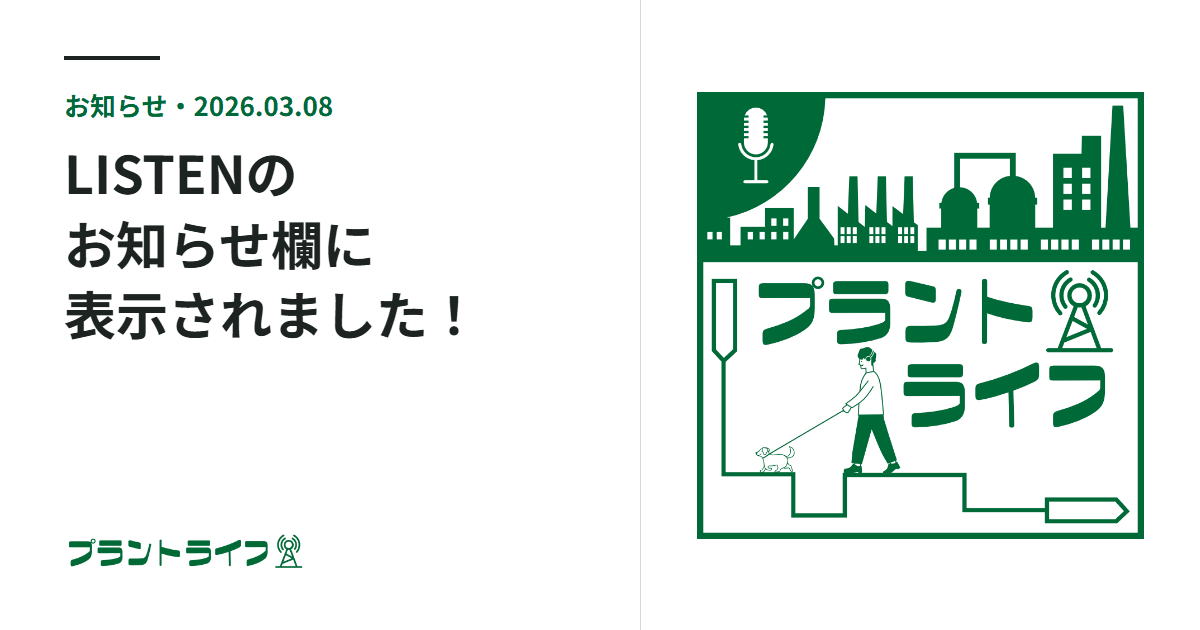
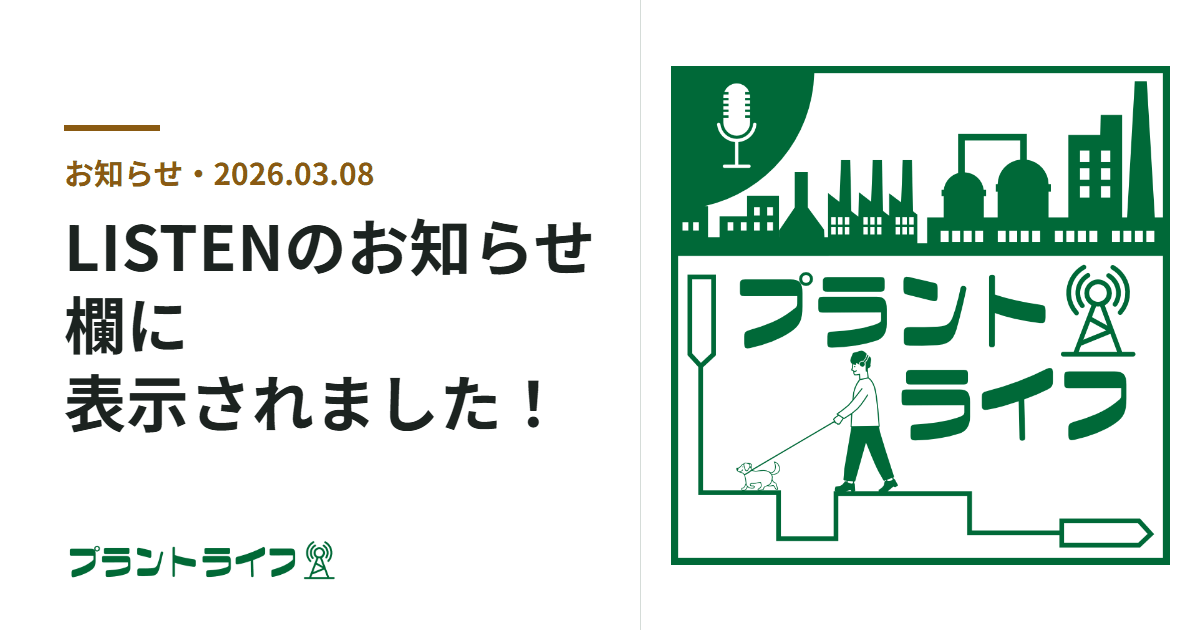
分類の差し色を入れる（テーマの色・サムネイルの作り直し）
- テーマ名の前に色の■（絞り込みの札・回のカード・回のページ）。安全・トラブルは三角、番組・コラボ企画は墨
  色は4サイト共通の差し色（反応・物質＝紫、装置＝納戸、工程・化学工学＝藍、環境＝黄土、計装＝赤紫、人・仕事＝紺、雑学＝弁柄）
- 共有用のサムネイル15枚を、余白を詰めた型で作り直した（題を大きく、語の途中で改行しない、ページの種類ごとの差し色）

diff --git a/styles.css b/styles.css
@@ -1931,3 +1931,47 @@ time,
     display: none;
   }
 }
+
+/* ===== 分類の差し色（デザインの決まり §3） ===== */
+:root {
+  --accent-ai: #315d84;
+  --accent-nando: #0f6a75;
+  --accent-odo: #8a5a12;
+  --accent-kon: #283c87;
+  --accent-murasaki: #7958a7;
+  --accent-akamurasaki: #692963;
+  --accent-enji: #a44b61;
+  --accent-bengara: #752b11;
+}
+/* テーマごとの色（4サイト共通の意味：反応・物質＝紫、装置＝納戸、工程＝藍、安全＝臙脂、環境＝黄土、計装＝赤紫、人・仕事＝紺） */
+[data-tag="化学物質・材料"],.ep-tag-link[href$="?tag=%E5%8C%96%E5%AD%A6%E7%89%A9%E8%B3%AA%E3%83%BB%E6%9D%90%E6%96%99"]{--cat:var(--accent-murasaki)}
+[data-tag="化学反応"],.ep-tag-link[href$="?tag=%E5%8C%96%E5%AD%A6%E5%8F%8D%E5%BF%9C"]{--cat:var(--accent-murasaki)}
+[data-tag="プラント設備・装置"],.ep-tag-link[href$="?tag=%E3%83%97%E3%83%A9%E3%83%B3%E3%83%88%E8%A8%AD%E5%82%99%E3%83%BB%E8%A3%85%E7%BD%AE"]{--cat:var(--accent-nando)}
+[data-tag="プロセス・運転管理"],.ep-tag-link[href$="?tag=%E3%83%97%E3%83%AD%E3%82%BB%E3%82%B9%E3%83%BB%E9%81%8B%E8%BB%A2%E7%AE%A1%E7%90%86"]{--cat:var(--accent-ai)}
+[data-tag="化学工学"],.ep-tag-link[href$="?tag=%E5%8C%96%E5%AD%A6%E5%B7%A5%E5%AD%A6"]{--cat:var(--accent-ai)}
+[data-tag="安全・トラブル"],.ep-tag-link[href$="?tag=%E5%AE%89%E5%85%A8%E3%83%BB%E3%83%88%E3%83%A9%E3%83%96%E3%83%AB"]{--cat:var(--accent-enji)}
+[data-tag="環境・資源循環"],.ep-tag-link[href$="?tag=%E7%92%B0%E5%A2%83%E3%83%BB%E8%B3%87%E6%BA%90%E5%BE%AA%E7%92%B0"]{--cat:var(--accent-odo)}
+[data-tag="計測・制御・DX"],.ep-tag-link[href$="?tag=%E8%A8%88%E6%B8%AC%E3%83%BB%E5%88%B6%E5%BE%A1%E3%83%BBDX"]{--cat:var(--accent-akamurasaki)}
+[data-tag="仕事・キャリア"],.ep-tag-link[href$="?tag=%E4%BB%95%E4%BA%8B%E3%83%BB%E3%82%AD%E3%83%A3%E3%83%AA%E3%82%A2"]{--cat:var(--accent-kon)}
+[data-tag="業界・ビジネス"],.ep-tag-link[href$="?tag=%E6%A5%AD%E7%95%8C%E3%83%BB%E3%83%93%E3%82%B8%E3%83%8D%E3%82%B9"]{--cat:var(--accent-kon)}
+[data-tag="科学・雑学"],.ep-tag-link[href$="?tag=%E7%A7%91%E5%AD%A6%E3%83%BB%E9%9B%91%E5%AD%A6"]{--cat:var(--accent-bengara)}
+[data-tag="番組・コラボ企画"],.ep-tag-link[href$="?tag=%E7%95%AA%E7%B5%84%E3%83%BB%E3%82%B3%E3%83%A9%E3%83%9C%E4%BC%81%E7%94%BB"]{--cat:var(--ink)}
+/* テーマ名の前に色の■。安全・トラブルは三角 */
+.ep-filter-chip[data-tag]:not([data-tag=""])::before,
+.all-ep-tag[data-tag]::before,
+.ep-tag-link::before {
+  content: "";
+  display: inline-block;
+  width: 0.55em;
+  height: 0.55em;
+  margin-right: 0.4em;
+  vertical-align: 0.06em;
+  background: var(--cat, var(--ink-2));
+}
+.ep-filter-chip[data-tag="安全・トラブル"]::before,
+.all-ep-tag[data-tag="安全・トラブル"]::before,
+.ep-tag-link[href$="?tag=%E5%AE%89%E5%85%A8%E3%83%BB%E3%83%88%E3%83%A9%E3%83%96%E3%83%AB"]::before {
+  width: 0.72em;
+  height: 0.64em;
+  clip-path: polygon(50% 0, 100% 100%, 0 100%);
+}
